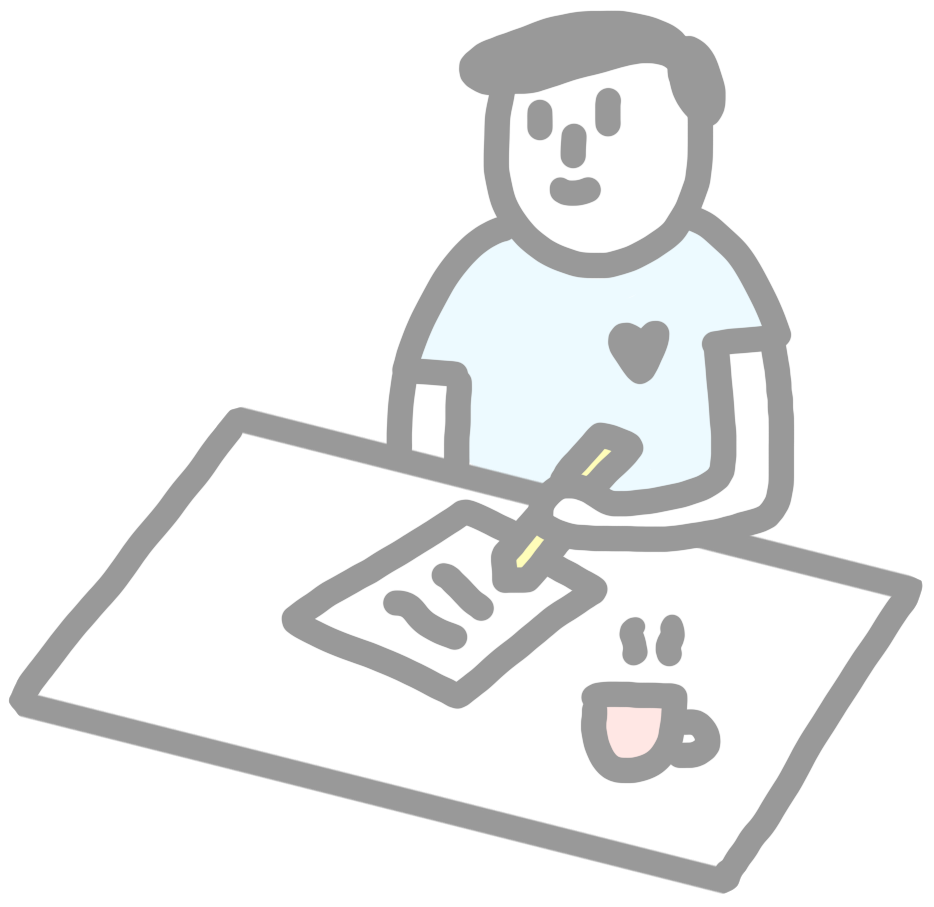
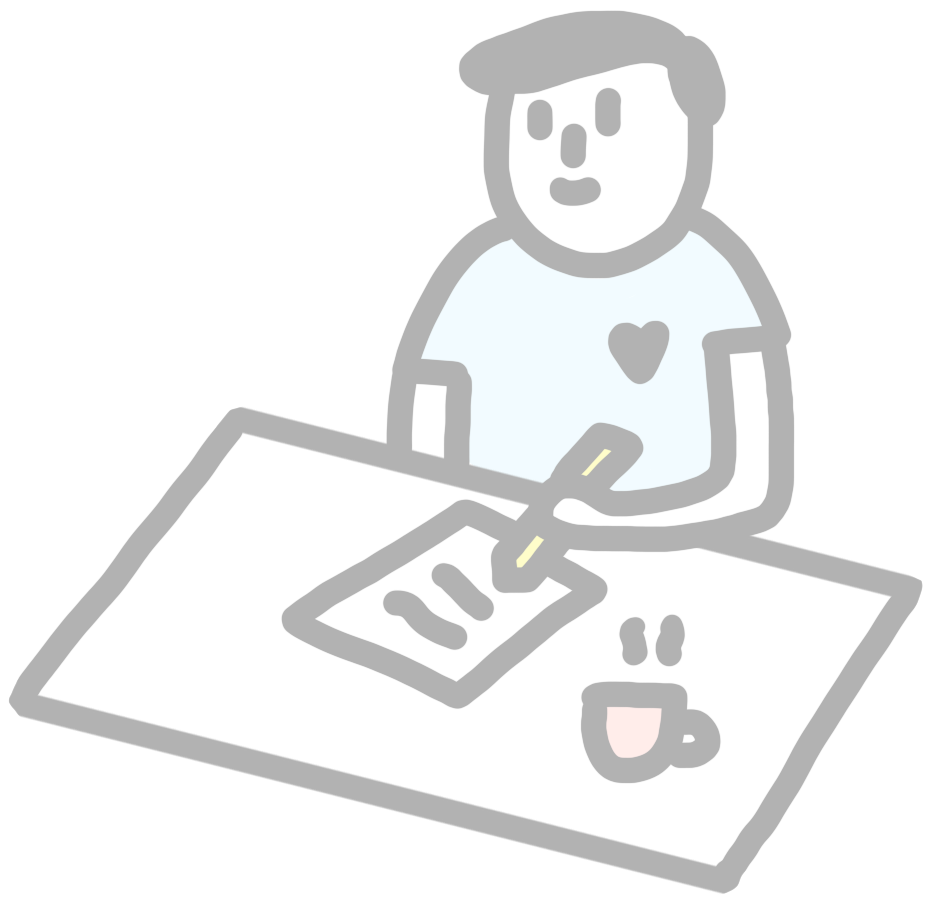
Pelon de rosa y señor de azul mas clarito

Changed region(s): [[0.0, 0.0, 0.9936, 0.9879], [0.621, 0.6792, 0.7762, 0.8644], [0.652, 0.3396, 0.7141, 0.4322]]

diff --git a/css/index.css b/css/index.css
@@ -411,7 +411,7 @@ body
     }
     .contenido2
     {
-        padding-top: 15px;
+        padding-top: 5px;
     }
     .contenidoArriba2
     {
